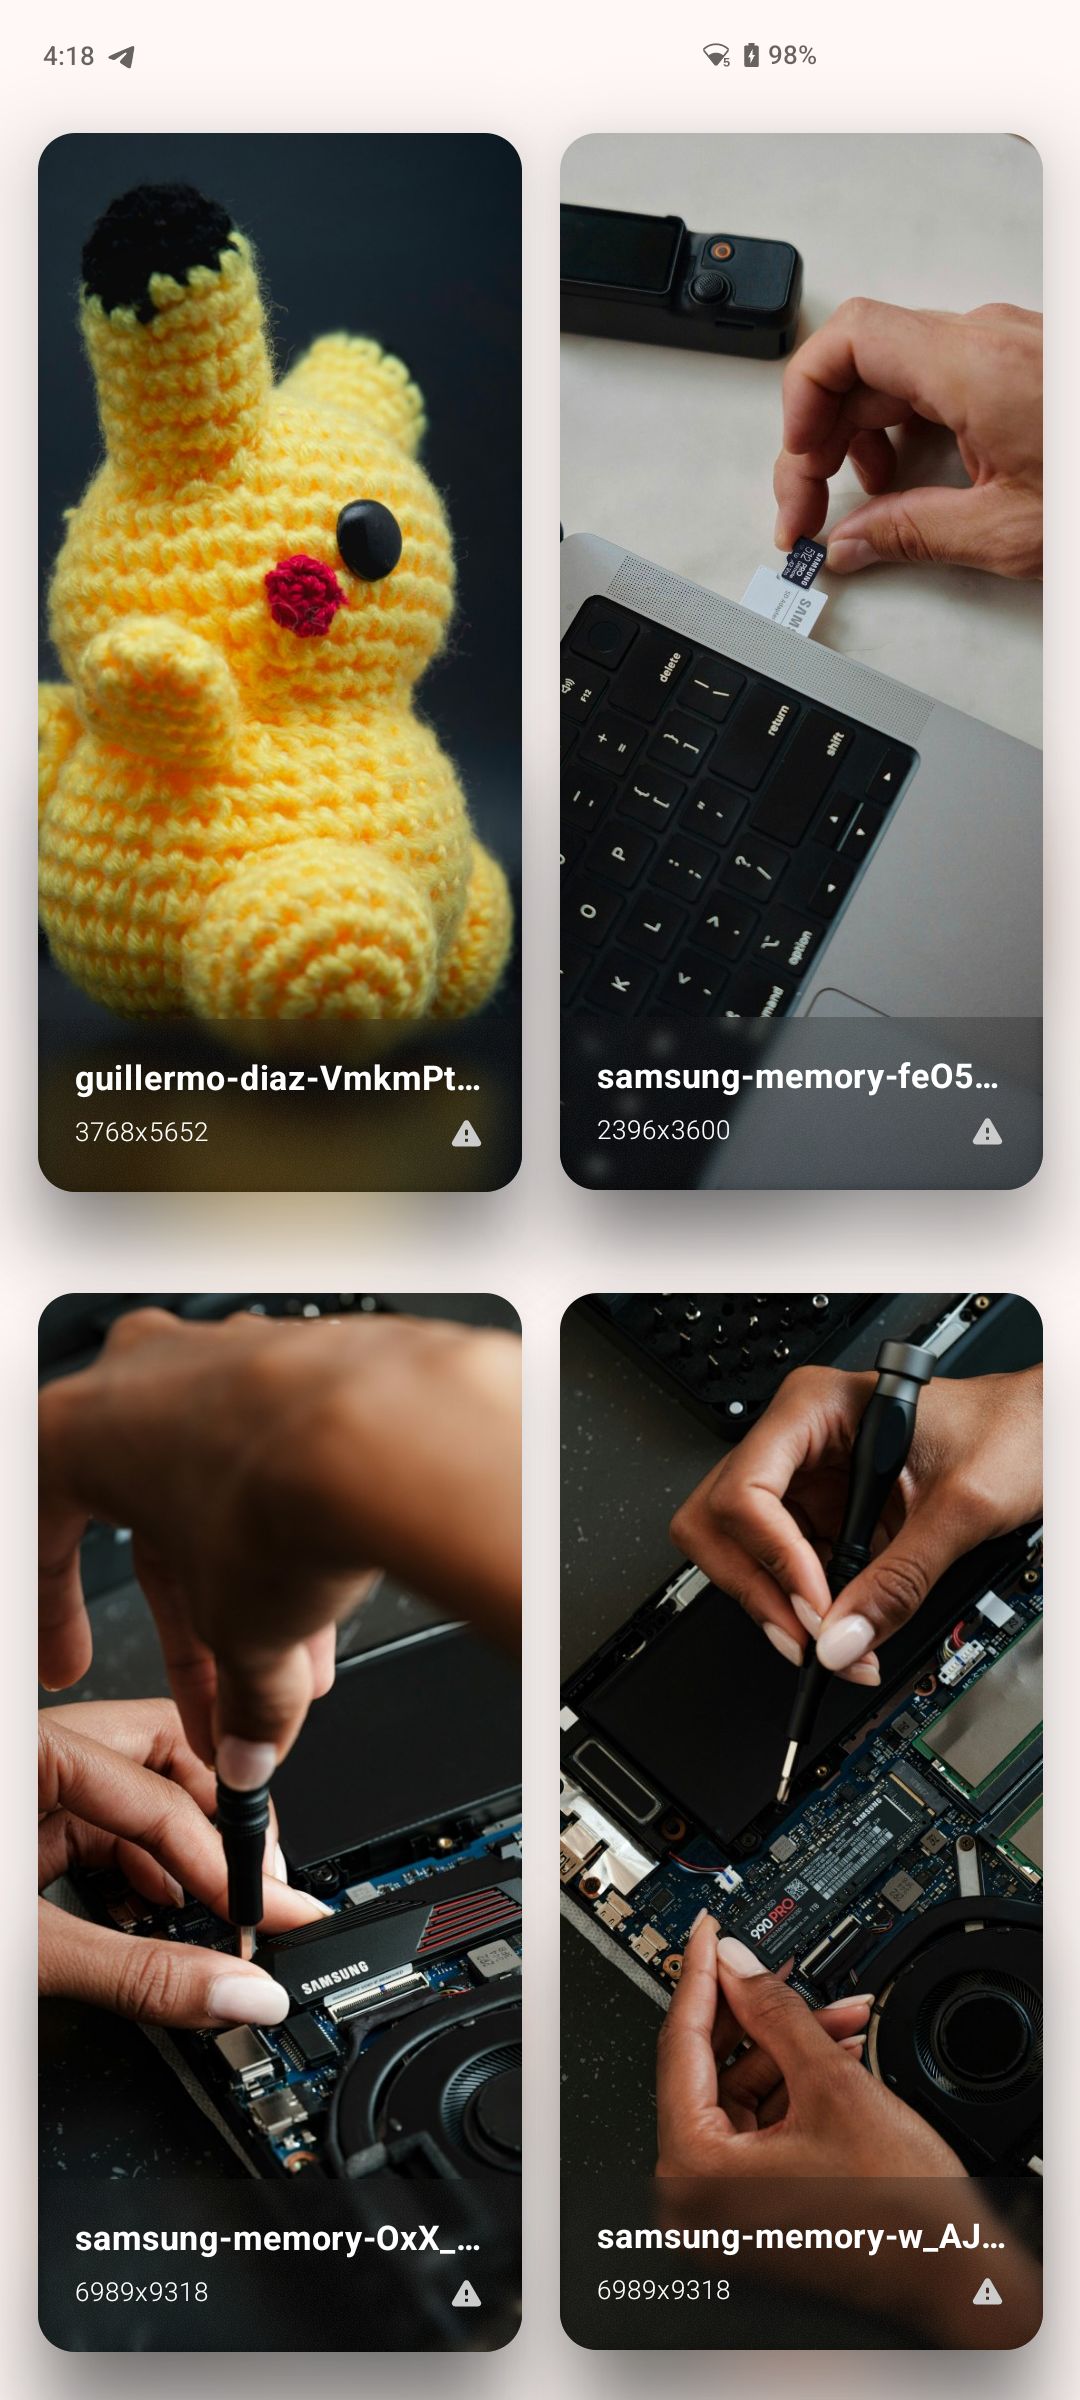
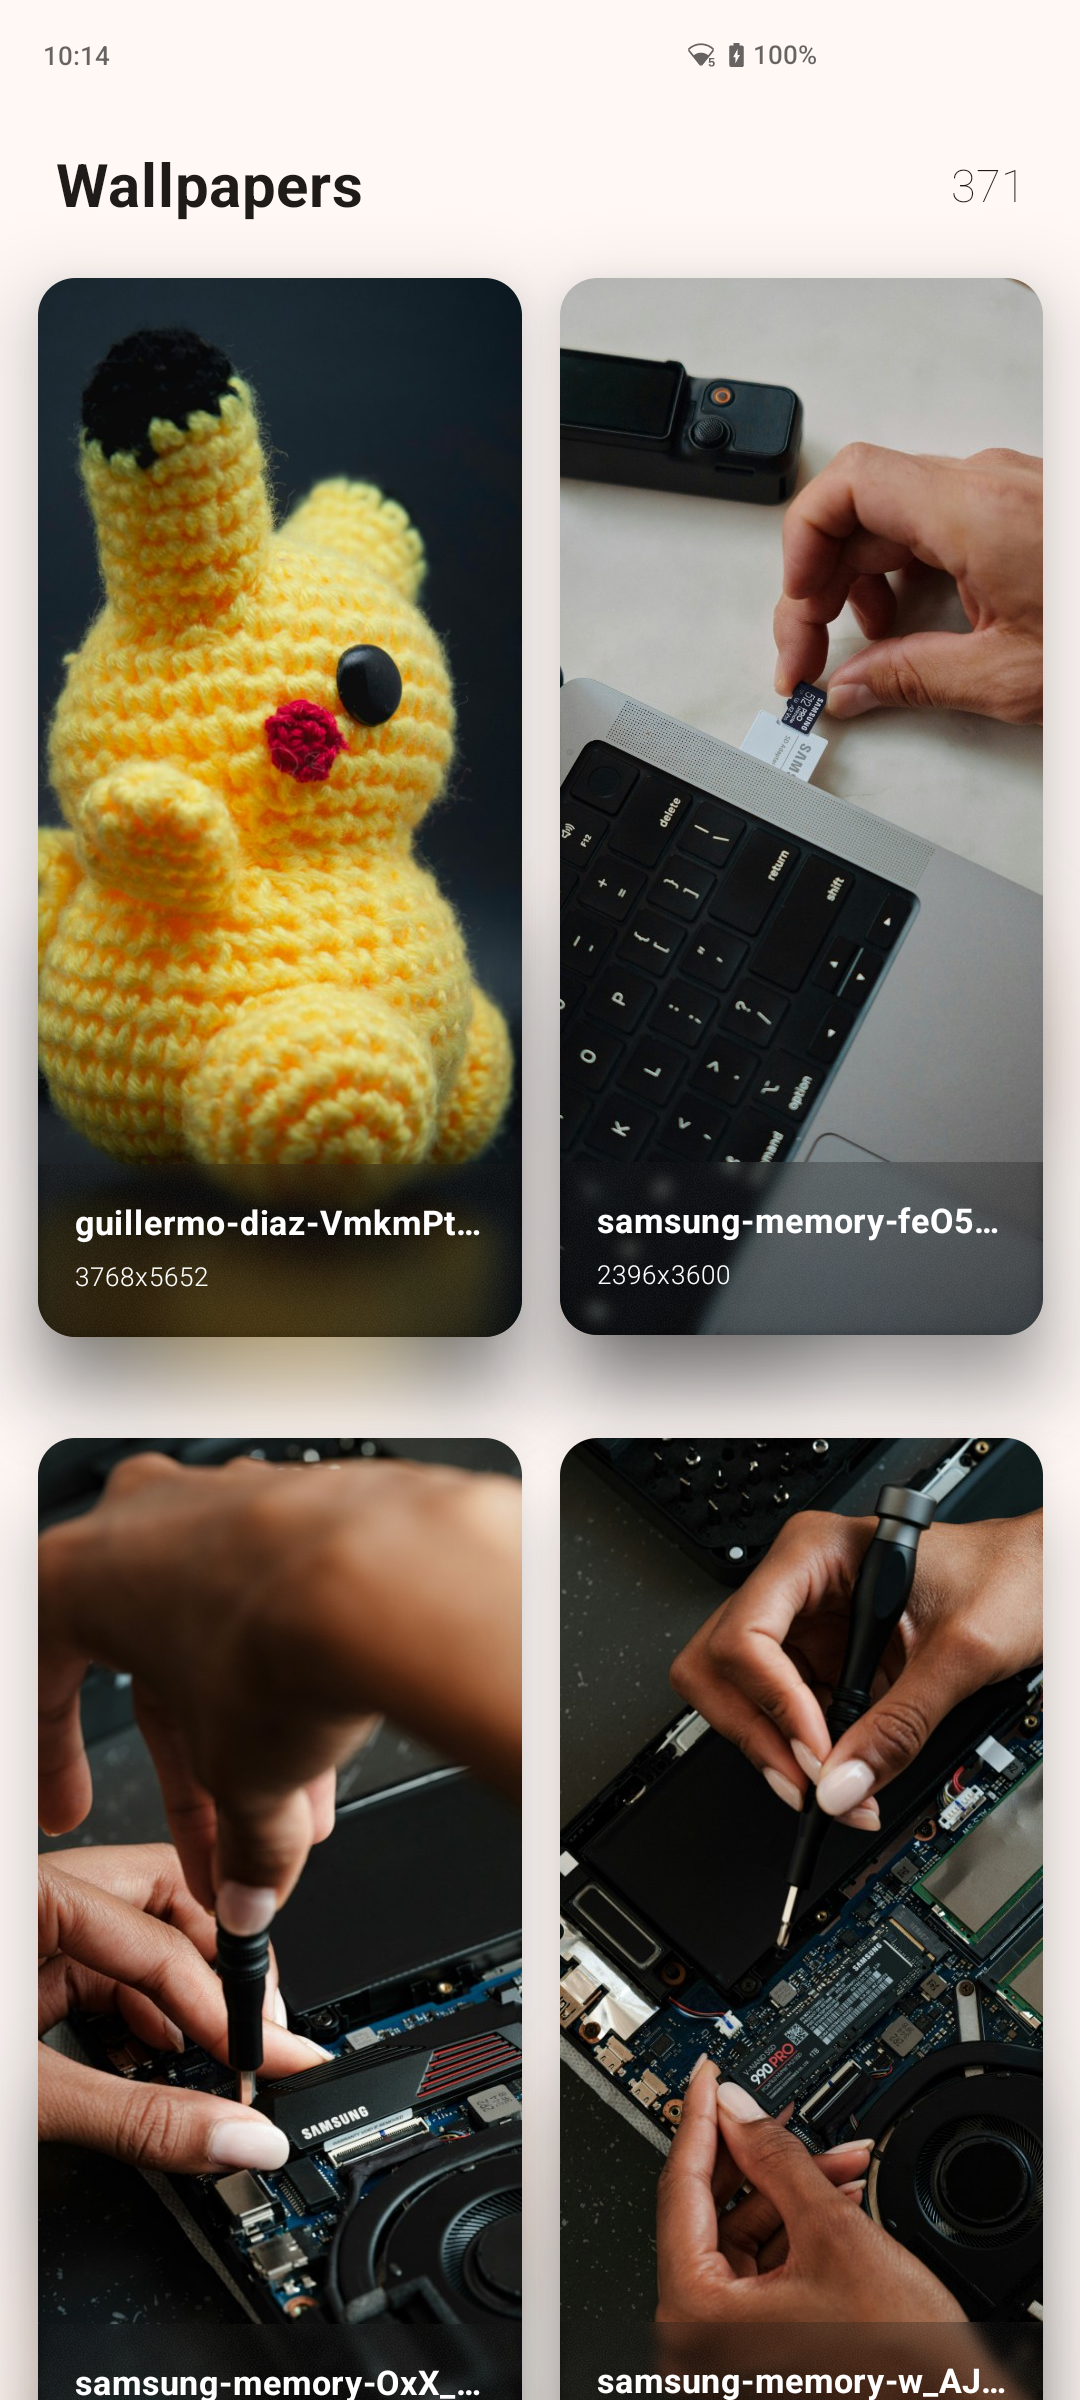
Add header in tags and list with count

diff --git a/app/src/main/java/app/simple/peri/compose/screens/Tags.kt b/app/src/main/java/app/simple/peri/compose/screens/Tags.kt
@@ -6,6 +6,7 @@ import androidx.compose.foundation.layout.fillMaxSize
 import androidx.compose.foundation.layout.padding
 import androidx.compose.foundation.lazy.staggeredgrid.LazyVerticalStaggeredGrid
 import androidx.compose.foundation.lazy.staggeredgrid.StaggeredGridCells
+import androidx.compose.foundation.lazy.staggeredgrid.StaggeredGridItemSpan
 import androidx.compose.material3.CardDefaults
 import androidx.compose.material3.ElevatedCard
 import androidx.compose.material3.Text
@@ -27,6 +28,8 @@ import androidx.core.view.WindowInsetsCompat
 import androidx.lifecycle.viewmodel.compose.viewModel
 import androidx.navigation.NavController
 import app.simple.peri.R
+import app.simple.peri.compose.commons.COMMON_PADDING
+import app.simple.peri.compose.commons.TopHeader
 import app.simple.peri.compose.nav.Routes
 import app.simple.peri.factories.TagsViewModelFactory
 import app.simple.peri.models.Tag
@@ -65,8 +68,15 @@ fun Tags(navController: NavController? = null) {
                     end = 8.dp,
                     bottom = 8.dp),
     ) {
+        item(span = StaggeredGridItemSpan.FullLine) {
+            TopHeader(
+                    title = stringResource(R.string.tags),
+                    modifier = Modifier.padding(COMMON_PADDING),
+                    count = tags.size)
+        }
         items(tags.size) { index ->
-            TagItem(tag = tags[index], navController = navController)
+            TagItem(tag = tags[index],
+                    navController = navController)
         }
     }
 }

diff --git a/app/src/main/java/app/simple/peri/compose/commons/Wallpapers.kt b/app/src/main/java/app/simple/peri/compose/commons/Wallpapers.kt
@@ -20,6 +20,7 @@ import androidx.compose.foundation.layout.size
 import androidx.compose.foundation.layout.width
 import androidx.compose.foundation.layout.wrapContentHeight
 import androidx.compose.foundation.lazy.grid.GridCells
+import androidx.compose.foundation.lazy.grid.GridItemSpan
 import androidx.compose.foundation.lazy.grid.LazyVerticalGrid
 import androidx.compose.foundation.shape.RoundedCornerShape
 import androidx.compose.material.icons.Icons
@@ -114,6 +115,10 @@ fun Wallpapers(list: List<Wallpaper>, navController: NavController? = null) {
                         end = 8.dp,
                         bottom = 8.dp)
         ) {
+            item(span = { GridItemSpan(maxLineSpan) }) {
+                TopHeader(title = "Wallpapers", count = wallpapers.size,
+                          modifier = Modifier.padding(COMMON_PADDING))
+            }
             items(wallpapers.size) { index ->
                 WallpaperItem(wallpapers[index], navController) { deletedWallpaper ->
                     wallpapers = wallpapers.filter { it != deletedWallpaper }

diff --git a/app/src/main/java/app/simple/peri/compose/commons/TopHeader.kt b/app/src/main/java/app/simple/peri/compose/commons/TopHeader.kt
@@ -15,7 +15,7 @@ import androidx.compose.ui.unit.sp
 val COMMON_PADDING = 16.dp
 
 @Composable
-fun TopHeader(title: String, modifier: Modifier = Modifier) {
+fun TopHeader(title: String, modifier: Modifier = Modifier, count: Int = 0) {
     Row(
             modifier = modifier
                 .fillMaxWidth()
@@ -29,5 +29,15 @@ fun TopHeader(title: String, modifier: Modifier = Modifier) {
                 modifier = Modifier.weight(1f), // Set the weight
                 fontWeight = FontWeight.Bold, // Make the text bold
         )
+
+        if (count > 0) {
+            Text(
+                    text = count.toString(),
+                    textAlign = TextAlign.End,
+                    fontSize = 24.sp,
+                    modifier = Modifier.weight(1f),
+                    fontWeight = FontWeight.Thin,
+            )
+        }
     }
 }
